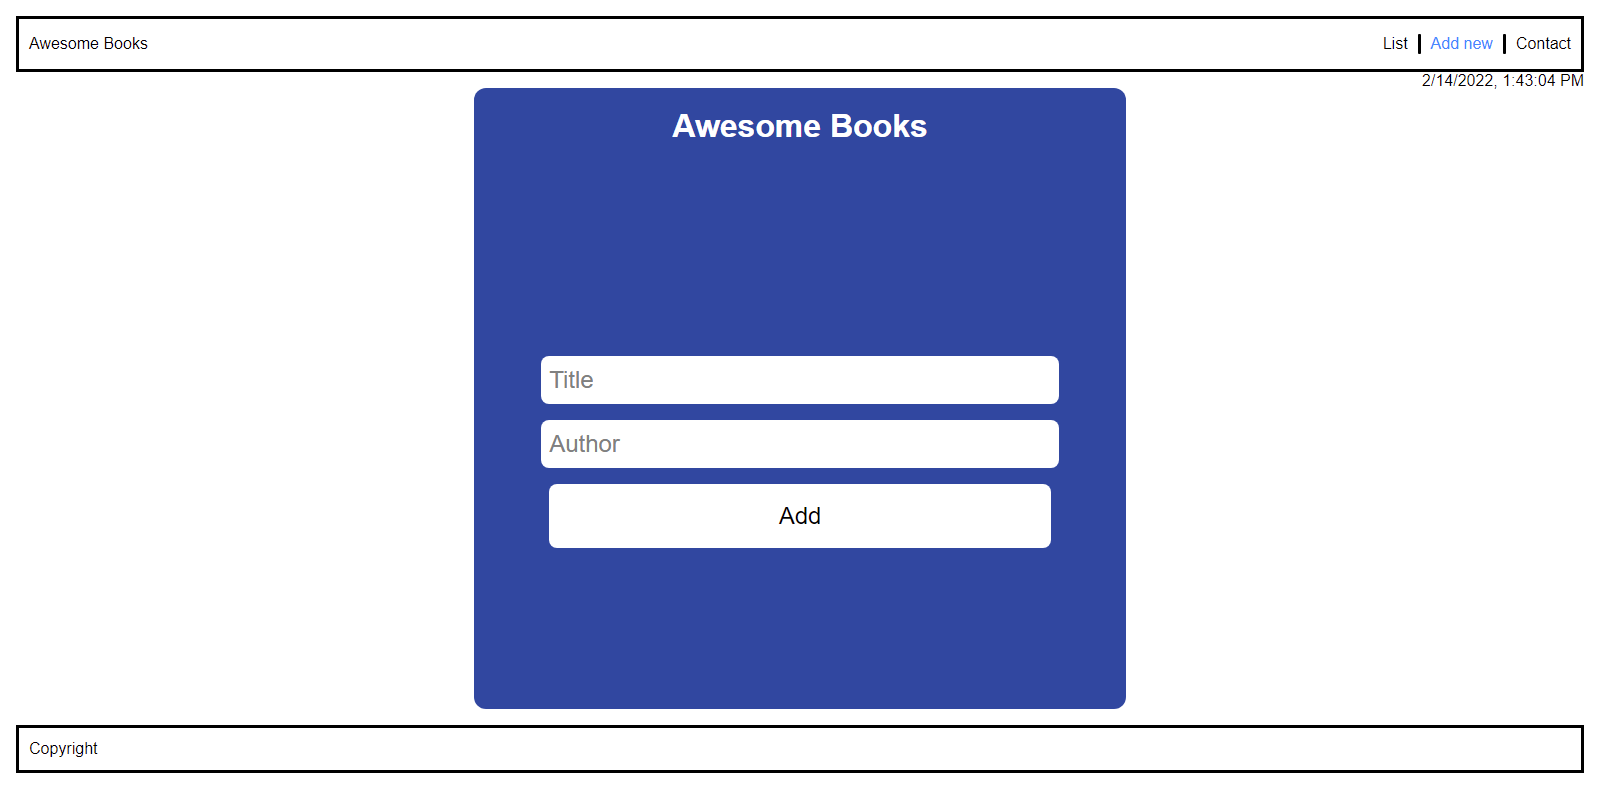
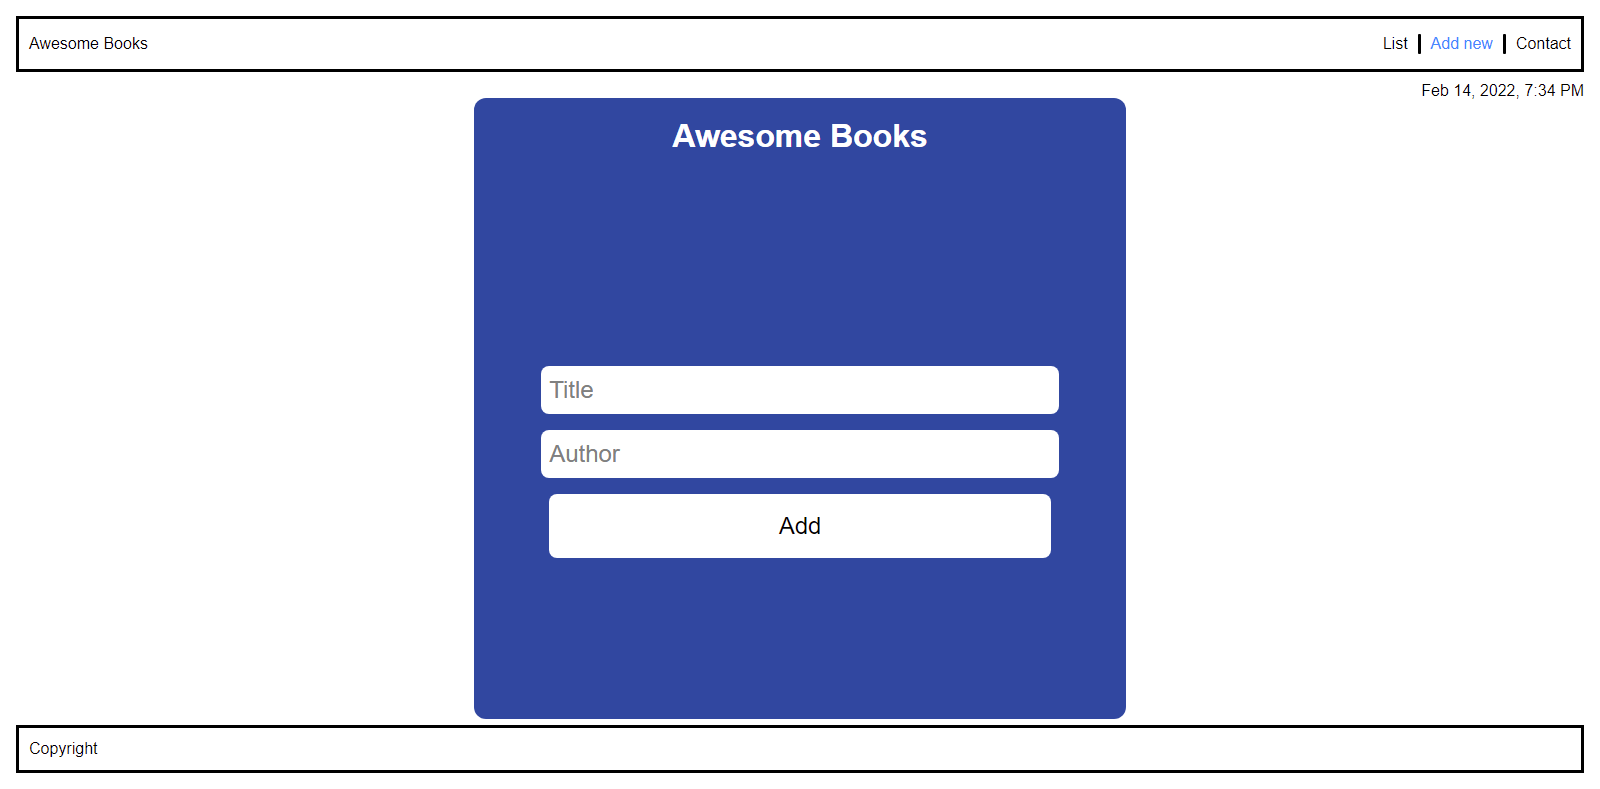
Update the previous date format to add the current date and time

diff --git a/modules/index.js b/modules/index.js
@@ -135,9 +135,8 @@ navadd.addEventListener('click', addfun);
 navcon.addEventListener('click', confun);
 
 const displayTime = () => {
-  document.getElementById('current-date').innerText = DateTime.now().toFormat(
-    "HH 'hours and' mm 'minutes'",
-  );
+  document.getElementById('current-date').innerText =
+    DateTime.now().toLocaleString(DateTime.DATETIME_MED);
   setTimeout(displayTime, 1000);
 };
 displayTime();

diff --git a/modules/index.css b/modules/index.css
@@ -47,6 +47,7 @@ header {
 
 #current-date {
   float: right;
+  padding-top: 10px;
 }
 
 #navbar a {
@@ -71,7 +72,7 @@ header {
 .main-container {
   width: 100%;
   height: 100%;
-  padding: 0;
+  padding-top: 10px;
   margin: 0;
   display: flex;
   flex-direction: column;
